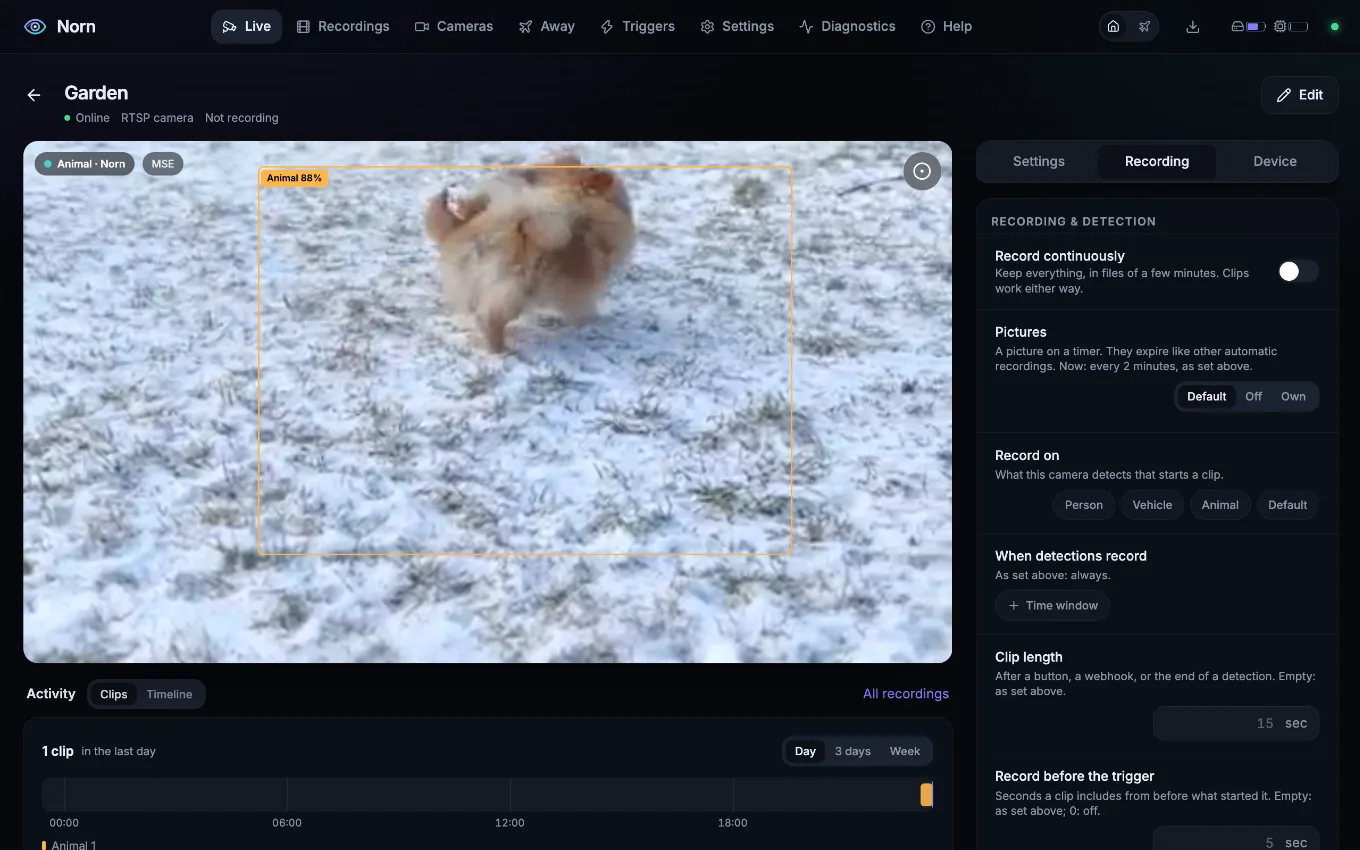
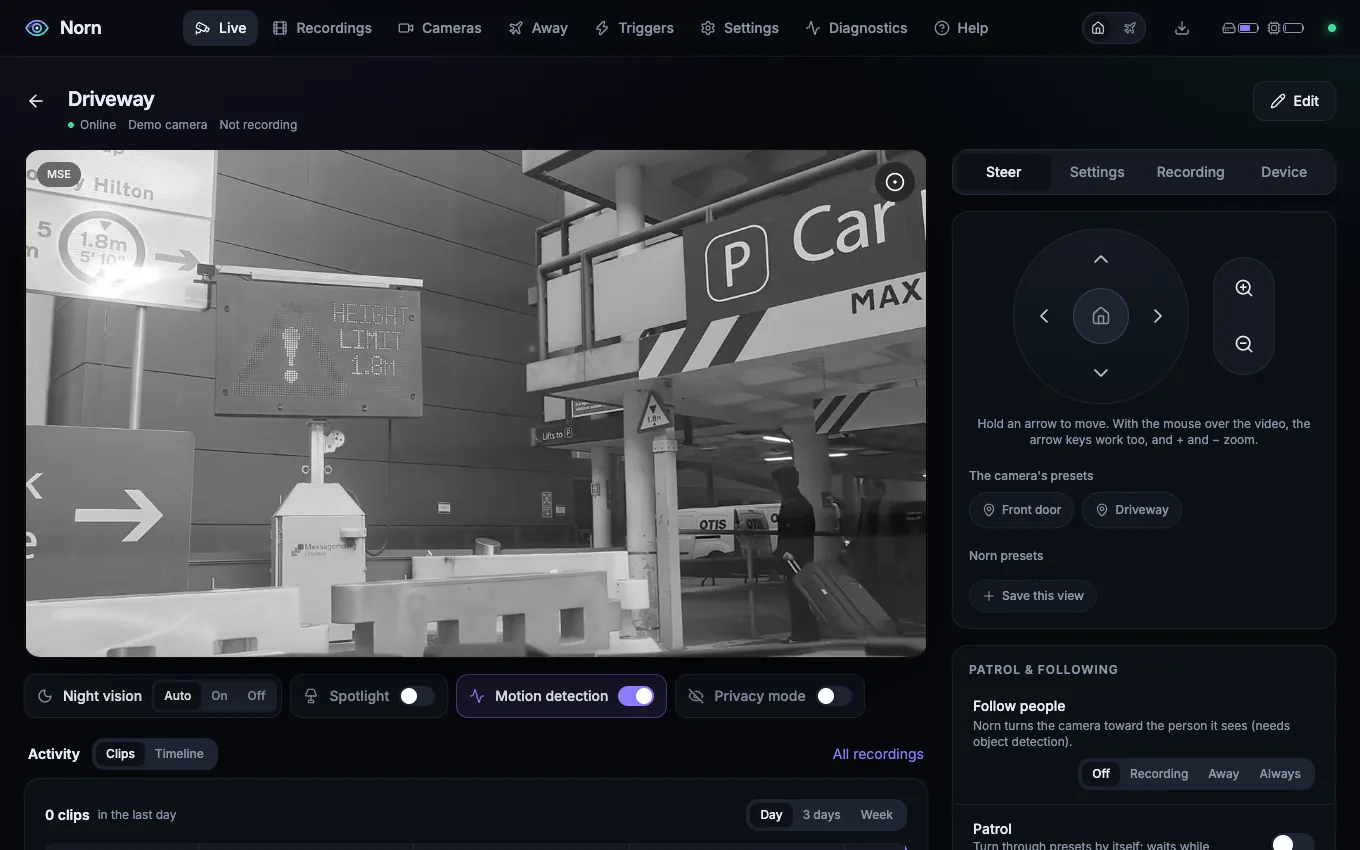
Website: own pictures for the camera and detection chapters; a live playhead
The camera chapter showed the same screenshot as detection: it now shows a pan/tilt camera
with the Steer tab, detection keeps the Garden shot with Norn's box, and on phones its real
video replaces the drawn boxes. The hero's playhead always said 21:47: it now shows the time
where it stands and the recording under it, drifts slower over recordings, and follows the
mouse or a finger on the bar.

Claude-Session: https://claude.ai/code/session_01FW6WZaGYsiCiWWweZopgEz

diff --git a/website/style.css b/website/style.css
@@ -185,15 +185,17 @@ main { position: relative; z-index: 1; }
 .scroll-hint { margin: 28px 0 0; font-size: 13px; color: var(--muted); text-align: center; }
 @media (min-width: 1024px) { .scroll-hint { text-align: left; max-width: var(--col); } }
 
-/* The ruler: a day of recordings with the playhead, the thing Norn shows all day. */
+/* The ruler: a day of recordings with the playhead, the thing Norn shows all day. site.js moves
+   the playhead; under the pointer it follows the pointer. */
 .ruler { width: 100%; max-width: 640px; margin: 40px auto 0; }
 @media (min-width: 1024px) { .ruler { max-width: var(--col); margin-left: 0; } }
-.ruler-track { position: relative; height: 30px; border-radius: 9px; background: var(--surface-2); border: 1px solid var(--line); overflow: hidden; }
-.ruler .clip { position: absolute; top: 7px; bottom: 7px; min-width: 4px; border-radius: 3px; background: var(--accent); opacity: 0.85; }
+.ruler-track { position: relative; height: 30px; border-radius: 9px; background: var(--surface-2); border: 1px solid var(--line); overflow: hidden; cursor: ew-resize; touch-action: pan-y; }
+.ruler .clip { position: absolute; top: 7px; bottom: 7px; min-width: 4px; border-radius: 3px; background: var(--accent); opacity: 0.6; transition: opacity 0.2s ease; }
 .ruler .clip.warm { background: var(--warn); }
-.ruler .playhead { position: absolute; top: 0; bottom: 0; left: 88%; width: 2px; background: var(--text); box-shadow: 0 0 0 1px var(--bg); animation: scan 14s ease-in-out infinite alternate; }
-.ruler .playhead em { position: absolute; top: 3px; left: 6px; padding: 1px 5px; border-radius: 5px; background: var(--text); color: var(--bg); font: 500 10px/1.3 var(--mono); font-style: normal; }
-@keyframes scan { from { left: 22%; } to { left: 90%; } }
+.ruler .clip.hit { opacity: 1; }
+.ruler .playhead { position: absolute; top: 0; bottom: 0; left: 88%; width: 2px; background: var(--text); box-shadow: 0 0 0 1px var(--bg); pointer-events: none; }
+.ruler .playhead em { position: absolute; top: 3px; left: 6px; padding: 1px 5px; border-radius: 5px; background: var(--text); color: var(--bg); font: 500 10px/1.3 var(--mono); font-style: normal; white-space: nowrap; }
+.ruler .playhead.flip em { left: auto; right: 6px; }
 .ruler-ticks { display: flex; justify-content: space-between; margin-top: 6px; font: 11px/1 var(--mono); color: var(--muted); }
 
 /* ----- The tour ----- */
@@ -203,7 +205,7 @@ main { position: relative; z-index: 1; }
   .chapter { min-height: 170vh; padding: 0 0 0 max(5vw, 40px); }
   .card { position: sticky; top: max(88px, min(22vh, 180px)); width: var(--col); margin: 0; opacity: 0.4; transform: translateY(14px); transition: opacity 0.6s ease, transform 0.6s cubic-bezier(0.2, 0.8, 0.2, 1); }
   .chapter.current .card { opacity: 1; transform: none; }
-  .inline-shot:not(.detect) { display: none; }
+  .inline-shot { display: none; }
 }
 .kicker { display: flex; align-items: center; gap: 10px; margin: 0 0 10px; font: 600 12px/1 var(--body); letter-spacing: 0.12em; text-transform: uppercase; color: var(--accent); }
 .number { font: 500 11px/1 var(--mono); letter-spacing: 0; padding: 4px 7px; border-radius: 7px; background: var(--accent-soft); }
@@ -219,16 +221,6 @@ main { position: relative; z-index: 1; }
 .inline-shot { margin: 20px 0 0; border-radius: 14px; overflow: hidden; border: 1px solid var(--line); box-shadow: var(--shadow); }
 .inline-shot img { display: block; width: 100%; height: auto; }
 .inline-shot.phone-shot { max-width: 260px; margin-inline: auto; border-radius: 30px; border: 8px solid var(--device); }
-
-/* The detection boxes, drawn: solid counts, dashed is ignored. */
-.detect { border: 0; box-shadow: none; overflow: visible; }
-.detect-frame { position: relative; aspect-ratio: 16 / 9; border-radius: 14px; overflow: hidden; background: radial-gradient(120% 90% at 30% 20%, #3a4255, #151922 60%), #151922; border: 1px solid var(--line); }
-.detect-frame::after { content: ""; position: absolute; inset: 0; background: repeating-linear-gradient(0deg, rgb(255 255 255 / 0.03) 0 1px, transparent 1px 3px); }
-.box { position: absolute; border: 2px solid #ffb547; border-radius: 7px; }
-.box.dashed { border-style: dashed; border-color: rgb(255 255 255 / 0.75); }
-.box em { position: absolute; left: 3px; top: 3px; max-width: calc(100% - 6px); overflow: hidden; text-overflow: ellipsis; white-space: nowrap; padding: 1px 6px; border-radius: 4px; font: 600 10px/1.5 var(--body); font-style: normal; background: #ffb547; color: #000; }
-.box.dashed em { background: rgb(0 0 0 / 0.7); color: #fff; }
-.detect figcaption { margin-top: 10px; font-size: 13px; color: var(--muted); }
 
 /* ----- After the tour ----- */
 .rest { position: relative; z-index: 1; background: var(--bg); padding-top: 40px; box-shadow: 0 -60px 80px -20px var(--bg); }
@@ -258,7 +250,7 @@ main { position: relative; z-index: 1; }
 .diagram { display: block; width: 100%; height: auto; }
 .diagram.narrow { display: none; max-width: 360px; margin: 0 auto; }
 @media (max-width: 640px) { .diagram.wide { display: none; } .diagram.narrow { display: block; } }
-.diagram .box { fill: var(--surface-2); stroke: var(--line-strong); stroke-width: 1.5; position: static; border: 0; }
+.diagram .box { fill: var(--surface-2); stroke: var(--line-strong); stroke-width: 1.5; }
 .diagram .box.accent { fill: var(--accent-soft); stroke: var(--accent); }
 .diagram .t { fill: var(--text); font: 650 17px var(--display); text-anchor: middle; }
 .diagram .s { fill: var(--muted); font: 12px var(--body); text-anchor: middle; }
@@ -317,6 +309,3 @@ main { position: relative; z-index: 1; }
 .tagline b { white-space: nowrap; }
 /* Jumps to a section land below the fixed top bar. */
 section[id] { scroll-margin-top: 72px; }
-/* Wide but short windows: the drawn example would push the card past the bottom; the stage
-   shows the boxes on the screenshot anyway. */
-@media (min-width: 1024px) and (max-height: 860px) { .inline-shot.detect { display: none; } }

diff --git a/website/index.html b/website/index.html
@@ -28,7 +28,8 @@
     <div class="browser-bar"><i></i><i></i><i></i><span class="url">norn.local:8000</span></div>
     <div class="screen">
       <img data-for="live" src="img/live-desktop.webp" width="1360" height="850" alt="">
-      <img data-for="camera ai" src="img/camera-desktop.webp" width="1360" height="850" alt="" loading="lazy">
+      <img data-for="camera" src="img/camera-desktop.webp" width="1360" height="850" alt="" loading="lazy">
+      <img data-for="ai" src="img/detect-desktop.webp" width="1360" height="850" alt="" loading="lazy">
       <img data-for="recordings" src="img/recordings-desktop.webp" width="1360" height="850" alt="" loading="lazy">
       <img data-for="timeline" src="img/timeline-desktop.webp" width="1360" height="850" alt="" loading="lazy">
     </div>
@@ -81,18 +82,19 @@
     </div>
     <p class="pills"><span>Open source, MIT</span><span>Local, no cloud</span><span>Docker or PyPI</span><span>Home Assistant</span></p>
   </div>
-  <!-- A recording timeline with its playhead: what Norn shows all day. -->
+  <!-- A day of recordings with its playhead, the thing Norn shows all day. site.js moves it, and
+       the pointer takes it over: the time where it stands, and the recording under it. -->
   <div class="ruler" aria-hidden="true">
     <div class="ruler-track">
-      <span class="clip" style="left:7%;width:2%"></span>
-      <span class="clip" style="left:16%;width:1%"></span>
-      <span class="clip warm" style="left:30%;width:4%"></span>
-      <span class="clip" style="left:51%;width:1.5%"></span>
-      <span class="clip warm" style="left:62%;width:2%"></span>
-      <span class="clip" style="left:77%;width:3%"></span>
-      <span class="playhead"><em>21:47</em></span>
+      <span class="clip" style="left:7%;width:2%" data-what="Animal · Garden"></span>
+      <span class="clip" style="left:16%;width:1%" data-what="Motion · Hallway"></span>
+      <span class="clip warm" style="left:30%;width:4%" data-what="Person · Front door"></span>
+      <span class="clip" style="left:51%;width:1.5%" data-what="Vehicle · Street"></span>
+      <span class="clip warm" style="left:62%;width:2%" data-what="Person · Sidewalk"></span>
+      <span class="clip" style="left:77%;width:3%" data-what="Vehicle · Car park"></span>
+      <span class="playhead"><em>21:07</em></span>
     </div>
-    <div class="ruler-ticks"><span>00:00</span><span>06:00</span><span>12:00</span><span>18:00</span><span>now</span></div>
+    <div class="ruler-ticks"><span>00:00</span><span>06:00</span><span>12:00</span><span>18:00</span><span>24:00</span></div>
   </div>
   <figure class="inline-shot hero-shot"><img src="img/live-desktop.webp" width="1360" height="850" alt="Norn's Live view: a grid of cameras with their names, the recording badge, and what each one detects."></figure>
   <p class="scroll-hint">A tour of Norn <span aria-hidden="true">↓</span></p>
@@ -133,14 +135,7 @@
       <li>When a camera's own AI reports a person, Norn looks too, and marks or skips the clips it can't confirm</li>
       <li>Certainty, confirmation delay and schedules for every camera</li>
     </ul>
-    <figure class="inline-shot detect">
-      <div class="detect-frame">
-        <span class="box solid" style="left:14%;top:20%;width:22%;height:68%"><em>Person 92 %</em></span>
-        <span class="box solid" style="left:50%;top:52%;width:36%;height:32%"><em>Vehicle 81 %</em></span>
-        <span class="box dashed" style="left:62%;top:8%;width:33%;height:34%"><em>Person 61 % · not moving</em></span>
-      </div>
-      <figcaption>Solid: it records. Dashed: Norn sees it, but doesn't count it.</figcaption>
-    </figure>
+    <figure class="inline-shot"><img src="img/detect-video.webp" width="928" height="522" loading="lazy" decoding="async" alt="A camera's video with Norn's box around a dog in the snow, labelled Animal 88 %, and the badge Animal · Norn."></figure>
   </article>
 </section>
 

diff --git a/website/site.js b/website/site.js
@@ -38,6 +38,67 @@
   body.dataset.chapter = '';
   show('hero');
 
+  // The hero's ruler: the playhead drifts through the day (slower over a recording) and shows the
+  // time where it stands and what was recorded there. The pointer takes it over, a finger too.
+  const ruler = document.querySelector('.ruler-track');
+  if (ruler) {
+    const head = ruler.querySelector('.playhead');
+    const label = head.querySelector('em');
+    const clips = [...ruler.querySelectorAll('.clip')].map((el) => {
+      const left = parseFloat(el.style.left) / 100;
+      return { el, from: left - 0.004, to: left + parseFloat(el.style.width) / 100 + 0.004 };
+    });
+    const still = matchMedia('(prefers-reduced-motion: reduce)').matches;
+    let at = 0.88;
+    let speed = -0.045; // of the day per second
+    let held = false;
+    let release = 0;
+    let hit = null;
+
+    function place(fraction) {
+      at = Math.min(1, Math.max(0, fraction));
+      const minutes = Math.min(Math.round(at * 1440), 1439);
+      const time = `${String(Math.floor(minutes / 60)).padStart(2, '0')}:${String(minutes % 60).padStart(2, '0')}`;
+      hit = clips.find((c) => at >= c.from && at <= c.to) ?? null;
+      for (const c of clips) c.el.classList.toggle('hit', c === hit);
+      head.style.left = `${at * 100}%`;
+      head.classList.toggle('flip', at > 0.6);
+      label.textContent = hit ? `${time} · ${hit.el.dataset.what}` : time;
+    }
+
+    function follow(e) {
+      const box = ruler.getBoundingClientRect();
+      held = true;
+      clearTimeout(release);
+      place((e.clientX - box.left) / box.width);
+    }
+    ruler.addEventListener('pointermove', (e) => {
+      if (e.pointerType === 'mouse' || e.buttons) follow(e);
+    });
+    ruler.addEventListener('pointerdown', follow);
+    ruler.addEventListener('pointerleave', () => (held = false));
+    ruler.addEventListener('pointerup', (e) => {
+      if (e.pointerType !== 'mouse') release = setTimeout(() => (held = false), 2000);
+    });
+
+    let last = 0;
+    function drift(now) {
+      const seconds = Math.min(0.1, (now - last) / 1000 || 0);
+      last = now;
+      if (!held) {
+        let next = at + speed * seconds * (hit ? 0.3 : 1);
+        if (next < 0.04 || next > 0.96) {
+          speed = -speed;
+          next = Math.min(0.96, Math.max(0.04, next));
+        }
+        place(next);
+      }
+      requestAnimationFrame(drift);
+    }
+    place(at);
+    if (!still) requestAnimationFrame(drift);
+  }
+
   // Install: Docker or Python.
   const tabs = [...document.querySelectorAll('.tabs [role="tab"]')];
   function pick(tab) {
